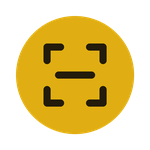
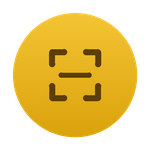
fix(poster): label practice matches and balance card margins
- backend: return normalized match_mode in match share data (goctl
  regenerated) so the poster can tell practice from ranked matches
- uniapp: practice match posters show a "练习赛" chip instead of
  "排位 ±0"; posters without match_mode keep the rank change label
- uniapp: lay out the two card columns symmetrically inside 60px margins,
  clamp card descriptions to one line that fits the card, and right-align
  the header note inside the card area; poster height unchanged
- uniapp: update the tab bar scan button image (lighter gold, thinner
  corner brackets)
- tests: share data returns match_mode; practice/ranked/legacy chip label;
  card columns and all poster text stay within the margins
- docs: record device checks of the share card and poster QR, plus these
  poster fixes, in the acceptance record

Changed region(s): [[0.08, 0.08, 0.9333, 0.9333], [0.2667, 0.4533, 0.64, 0.72], [0.5333, 0.5333, 0.72, 0.72]]

diff --git a/uniapp/utils/posterGenerator.js b/uniapp/utils/posterGenerator.js
@@ -11,6 +11,11 @@ import { DEFAULT_USER_AVATAR } from './user-profile.js'
 
 const QR_QUIET_MODULES = 2
 
+// 两列数据卡：卡片区 60–690（宽 630），左右各留 60，列间距 20。
+const POSTER_CARD_LEFT = 60
+const POSTER_CARD_GAP = 20
+const POSTER_CARD_WIDTH = (630 - POSTER_CARD_GAP) / 2
+
 /**
  * 海报二维码指向哪个入口：公开对局去对局页，私密或缺失（按私密处理）去首页。
  */
@@ -324,7 +329,8 @@ function drawSummaryCard(ctx, item, x, y, w, h) {
   ctx.fillText(item.value || '--', x + 28, y + 94)
 
   if (item.desc) {
-    drawTextBlock(ctx, item.desc, x + 28, y + 132, 16, 28, 2, '#cbd5e1', 20)
+    // 卡片内文字区宽 w - 28 - 20；按 18 号字算一行能放的字数，只画一行，超出省略，不越出卡片右缘和底边。
+    drawTextBlock(ctx, item.desc, x + 28, y + 132, Math.floor((w - 48) / 18), 28, 1, '#cbd5e1', 18)
   }
 }
 
@@ -378,7 +384,10 @@ function drawMatchPoster(canvasId, data, template, images) {
 
     const gameTypeName = data.game_type_name || getGameTypeLabel(data.game_type)
     const rankChange = Number(data.rank_change || 0)
-    const rankChangeLabel = rankChange > 0 ? `排位 +${rankChange}` : rankChange < 0 ? `排位 ${rankChange}` : '排位 ±0'
+    // 练习赛不计排位，标签显示对局类型；没有 match_mode 的旧数据保持显示排位变化。
+    const rankChangeLabel = data.match_mode === 'practice'
+      ? '练习赛'
+      : rankChange > 0 ? `排位 +${rankChange}` : rankChange < 0 ? `排位 ${rankChange}` : '排位 ±0'
     const resultColor = data.result === '胜利' ? '#22c55e' : data.result === '失利' ? '#f97316' : '#cbd5e1'
 
     const grd = ctx.createLinearGradient(0, 0, W, H)
@@ -466,14 +475,17 @@ function drawMatchPoster(canvasId, data, template, images) {
     ctx.setFontSize(22)
     ctx.setFillStyle('#cbd5e1')
     ctx.fillText(`对局时间 ${data.match_time || data.date || '--'}`, 80, 510 + dy)
-    ctx.fillText(`总结口径与战报页一致`, 500, 510 + dy)
+    // 右侧说明与左侧时间对称，右对齐到 670（卡片区右缘 690 内收 20）。
+    ctx.setTextAlign('right')
+    ctx.fillText(`总结口径与战报页一致`, 670, 510 + dy)
+    ctx.setTextAlign('left')
 
     drawSectionHeader(ctx, '本场亮点', `按${gameTypeName}模式提炼这场最值得记住的表现`, 572 + dy)
     if (highlights.length) {
       highlights.forEach((item, index) => {
         const col = index % 2
         const row = Math.floor(index / 2)
-        drawSummaryCard(ctx, item, 60 + col * 315, 628 + dy + row * 170, 275, 146)
+        drawSummaryCard(ctx, item, POSTER_CARD_LEFT + col * (POSTER_CARD_WIDTH + POSTER_CARD_GAP), 628 + dy + row * 170, POSTER_CARD_WIDTH, 146)
       })
     } else {
       drawRoundRect(ctx, 60, 628 + dy, 630, 146, 24)
@@ -487,7 +499,7 @@ function drawMatchPoster(canvasId, data, template, images) {
     stats.forEach((item, index) => {
       const col = index % 2
       const row = Math.floor(index / 2)
-      drawSummaryCard(ctx, item, 60 + col * 315, statsTop + 56 + row * 170, 275, 146)
+      drawSummaryCard(ctx, item, POSTER_CARD_LEFT + col * (POSTER_CARD_WIDTH + POSTER_CARD_GAP), statsTop + 56 + row * 170, POSTER_CARD_WIDTH, 146)
     })
 
     const qrTarget = resolvePosterQrTarget(data)

diff --git a/backend/internal/logic/share/get_match_share_data_visibility_test.go b/backend/internal/logic/share/get_match_share_data_visibility_test.go
@@ -14,8 +14,9 @@ import (
 	"gorm.io/gorm"
 )
 
-// 海报据 visibility 选择二维码：私密练习对局不能被印成对局链接，旧数据缺省按排位公开归一。
-func TestMatchShareDataReturnsNormalizedVisibility(t *testing.T) {
+// 海报据 visibility 选择二维码、据 match_mode 决定是否显示排位变化：
+// 私密练习对局不能被印成对局链接，练习赛不显示排位；旧数据缺省按排位公开归一。
+func TestMatchShareDataReturnsNormalizedVisibilityAndMode(t *testing.T) {
 	db, err := gorm.Open(sqlite.Open("file:"+t.Name()+"?mode=memory&cache=shared"), &gorm.Config{})
 	if err != nil {
 		t.Fatalf("open sqlite: %v", err)
@@ -42,10 +43,12 @@ func TestMatchShareDataReturnsNormalizedVisibility(t *testing.T) {
 		mode       string
 		visibility string
 		want       string
+		wantMode   string
 	}{
-		{id: 31, mode: model.MatchModePractice, visibility: model.MatchVisibilityPrivate, want: model.MatchVisibilityPrivate},
-		{id: 32, mode: model.MatchModeRanked, visibility: model.MatchVisibilityPublic, want: model.MatchVisibilityPublic},
-		{id: 33, mode: model.MatchModeRanked, visibility: "", want: model.MatchVisibilityPublic},
+		{id: 31, mode: model.MatchModePractice, visibility: model.MatchVisibilityPrivate, want: model.MatchVisibilityPrivate, wantMode: model.MatchModePractice},
+		{id: 32, mode: model.MatchModeRanked, visibility: model.MatchVisibilityPublic, want: model.MatchVisibilityPublic, wantMode: model.MatchModeRanked},
+		{id: 33, mode: "", visibility: "", want: model.MatchVisibilityPublic, wantMode: model.MatchModeRanked},
+		{id: 34, mode: model.MatchModePractice, visibility: model.MatchVisibilityPublic, want: model.MatchVisibilityPublic, wantMode: model.MatchModePractice},
 	} {
 		match := model.Match{
 			Id: testCase.id, UserId: 1, OpponentId: &opponentID, OpponentName: "乙", GameType: 1,
@@ -63,6 +66,9 @@ func TestMatchShareDataReturnsNormalizedVisibility(t *testing.T) {
 		}
 		if resp.Data.Visibility != testCase.want {
 			t.Fatalf("match %d visibility = %q, want %q", testCase.id, resp.Data.Visibility, testCase.want)
+		}
+		if resp.Data.MatchMode != testCase.wantMode {
+			t.Fatalf("match %d match_mode = %q, want %q", testCase.id, resp.Data.MatchMode, testCase.wantMode)
 		}
 	}
 }

diff --git a/backend/internal/types/types.go b/backend/internal/types/types.go
@@ -2514,6 +2514,7 @@ type MatchShareData struct {
 	MatchTime         string             `json:"match_time"`
 	RankChange        int                `json:"rank_change"`
 	Visibility        string             `json:"visibility,optional"` // public/private，海报据此选择二维码链接
+	MatchMode         string             `json:"match_mode,optional"` // ranked/practice，练习赛海报不显示排位变化
 	SummaryHighlights []MatchSummaryItem `json:"summary_highlights,optional"`
 	SummaryStats      []MatchSummaryItem `json:"summary_stats,optional"`
 }

diff --git a/backend/internal/logic/share/get_match_share_data_logic.go b/backend/internal/logic/share/get_match_share_data_logic.go
@@ -245,6 +245,7 @@ func (l *GetMatchShareDataLogic) GetMatchShareData(req *types.GetMatchShareDataR
 			SummaryHighlights: summaryHighlights,
 			SummaryStats:      summaryStats,
 			Visibility:        model.NormalizeMatchVisibility(match.Visibility, match.MatchMode),
+			MatchMode:         model.NormalizeMatchMode(match.MatchMode),
 		},
 	}, nil
 }

diff --git a/docs/testing/wechat-scan-to-join-acceptance.md b/docs/testing/wechat-scan-to-join-acceptance.md
@@ -103,3 +103,29 @@
 本次自动化执行：`node --test tests/*.test.mjs`（`uniapp/`）1133 个用例 1132 通过，唯一失败仍是上文 `.DS_Store` 引起的 `cdn-asset.test.mjs`；`go vet ./...`、`go test ./...`（`backend/`）通过；`npm run test`（`website/`）36 个用例通过，`npm run generate` 成功且产物含 `/go/index.html`；`openspec validate add-wechat-scan-to-join-and-share --strict` 通过。
 
 待人工确认：重新上传体验版后，在赛果页点「转发」确认卡片标题带比分；生成一张公开对局战报海报，确认二维码与「追分」不重叠且可被微信识别。
+
+## 8. 第 7 节修复的真机确认与海报版式修正（2026-10-27）
+
+### 8.1 真机确认（用户提供截图，体验版）
+
+用户重新上传体验版后提供了三张截图：分享给好友的卡片、保存到相册的海报、海报预览页。对局为九球追分练习赛（公开），比分 99:58。
+
+| 项目 | 结果 |
+| --- | --- |
+| 赛果页转发卡片 | 通过：标题为「PerfectI… 99:58 TimesNew… · 九球追分练习赛」，含比分，昵称按 8 字截断，球种与对局类型正确；卡片封面为赛果页顶部默认截图；卡片标注「未发布的小程序 · 体验版」 |
+| 海报二维码与文字 | 通过：两行旁注都在「追分」品牌行之上，无重叠 |
+| 海报二维码内容 | 通过：用 macOS CoreImage（`CIDetector` QR 检测）解码保存的海报与预览页截图，均为 `https://www.zhuifen.cn/go/?m=2` |
+| 微信扫海报二维码进入小程序 | 未验证：扫码规则仍为 Pending，需在正式发布后确认 |
+
+### 8.2 截图暴露的两个历史问题（早于本变更），已修正
+
+| 问题 | 修复 | 回归测试 |
+| --- | --- | --- |
+| 练习赛海报右上角显示「排位 ±0」：标签固定写排位，`MatchShareData` 也没有对局类型 | `MatchShareData` 新增 `match_mode`（`NormalizeMatchMode` 归一，经 goctl 生成）；练习赛标签显示「练习赛」，缺少 `match_mode` 的旧数据仍显示排位变化 | 后端 `TestMatchShareDataReturnsNormalizedVisibilityAndMode`；`poster-generator.test.mjs` 练习赛/排位赛/旧数据三种情况（旧实现下失败） |
+| 数据卡片左右边距不对称（左 60、右 100），长说明（如「不被对手打断的连续得分峰值」）越出卡片右缘，右上「总结口径与战报页一致」超出卡片区 | 两列卡片改为 60–690 内对称（宽 305、间距 20）；说明文字按卡片宽度计算每行字数、18 号字单行，超出省略；右上说明右对齐到 670；海报高度不变 | `poster-generator.test.mjs`：卡片左缘为 60/385、所有文字在 [60, 690] 内（旧实现下失败） |
+
+改前后对比：在 headless Chrome 里回放单测同款画布调用渲染海报，改前版式与用户真机海报一致，改后卡片对称、说明不越界、标签为「练习赛」。
+
+本次自动化执行：`node --test tests/*.test.mjs`（`uniapp/`）1135 个用例 1134 通过（唯一失败仍为 `.DS_Store` 引起的 `cdn-asset.test.mjs`）；`go vet ./...`、`go test ./...`（`backend/`）通过；原生 iOS 不调用 `/api/share/match`，无需改动。
+
+待人工确认：后端发布 `match_mode` 后重新生成一张练习赛海报与一张排位赛海报，确认标签与卡片版式。练习赛标签依赖新后端返回 `match_mode`；后端未发布前，新客户端仍显示「排位 ±0」。
